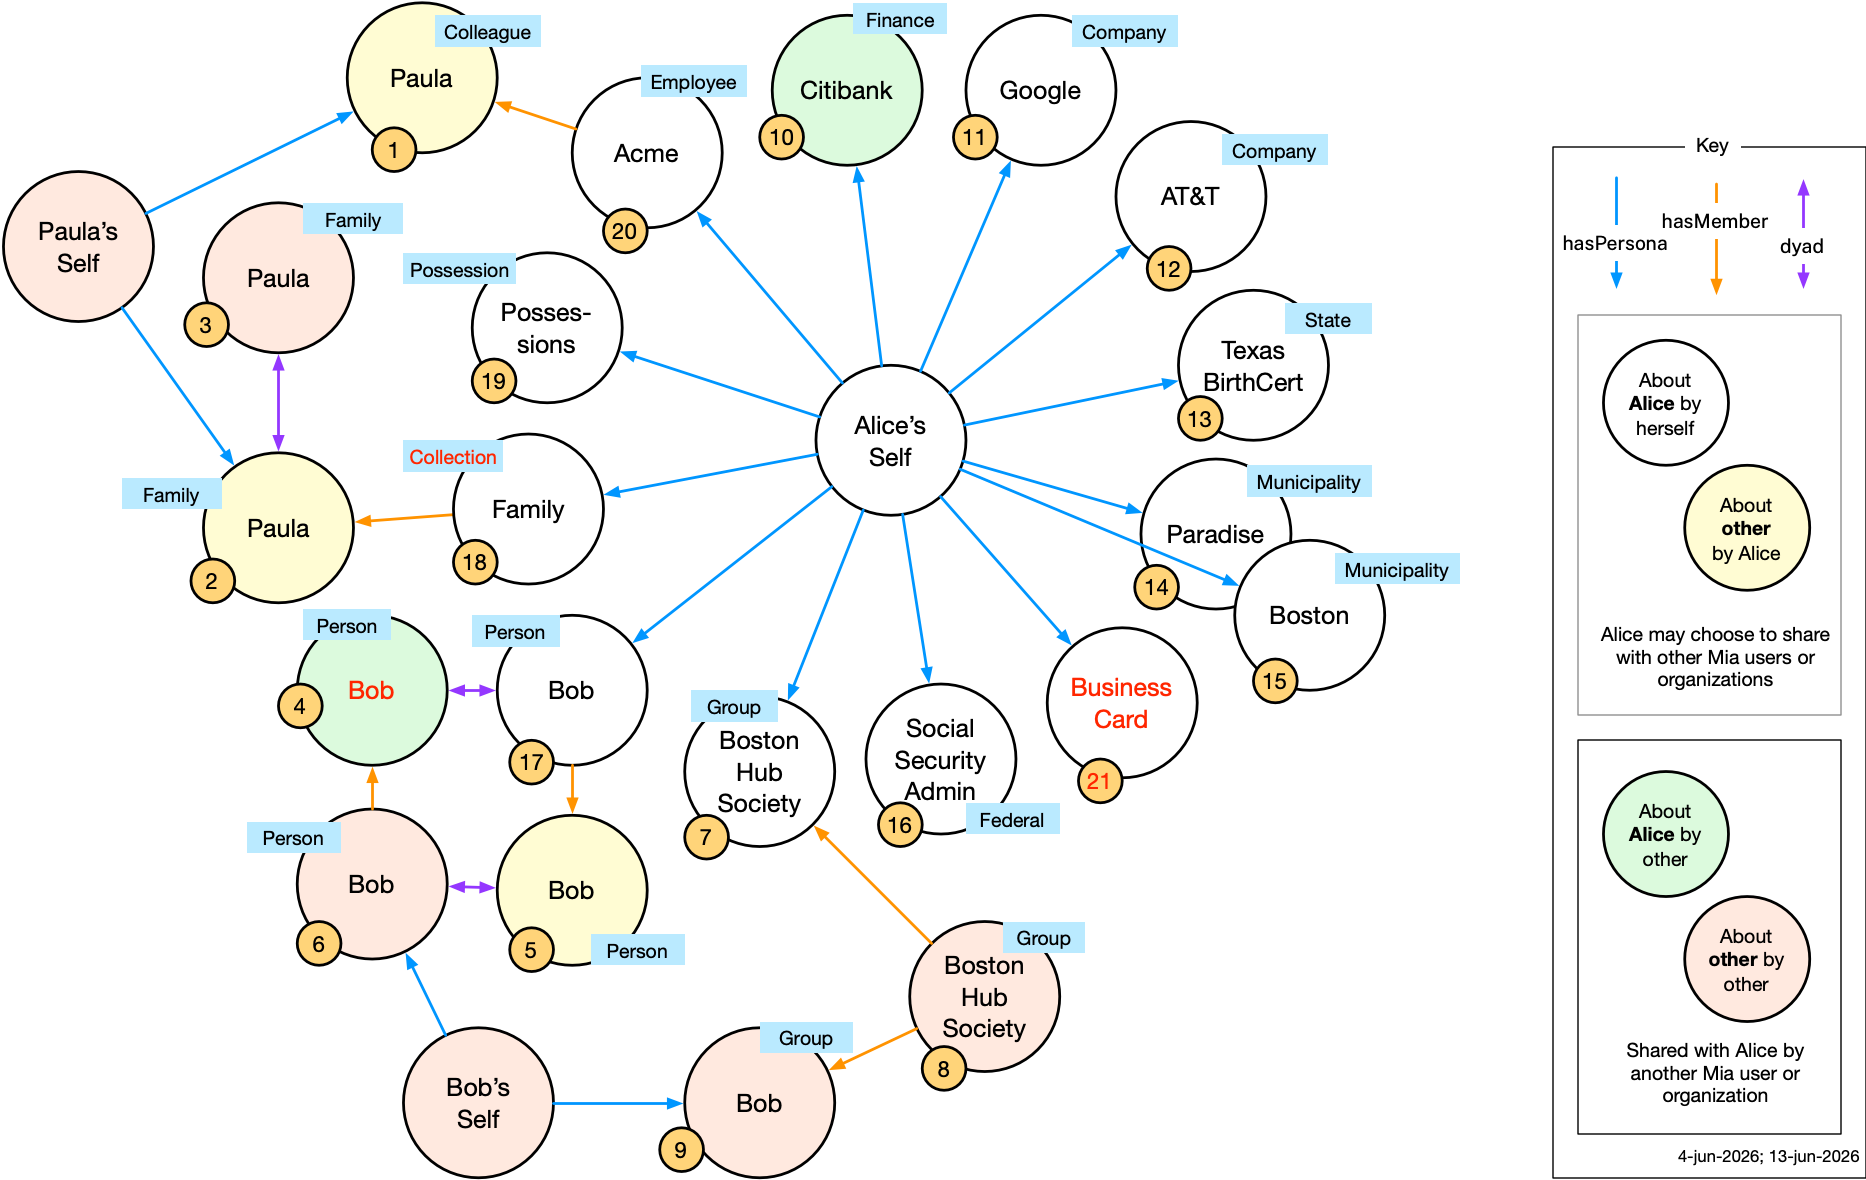
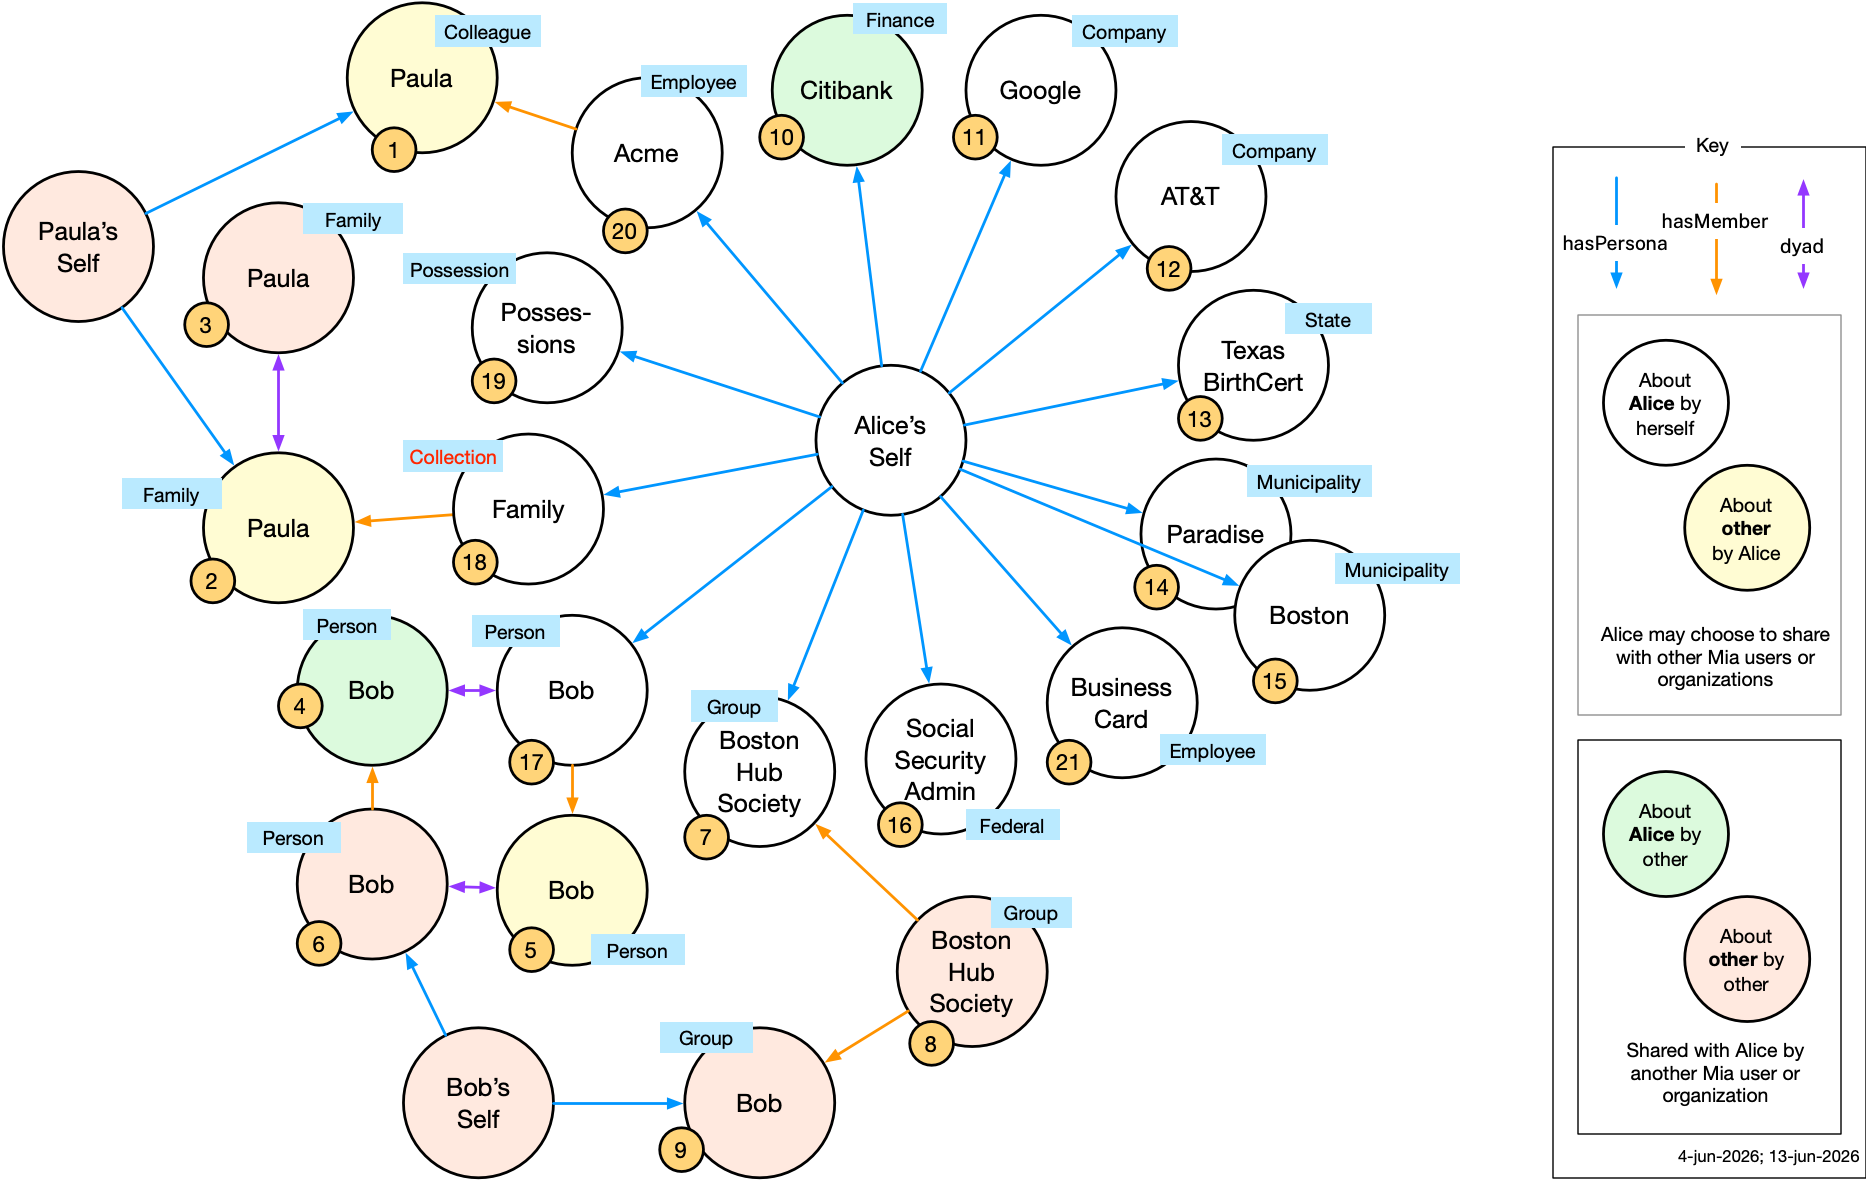
Add context #21: alice(business-card)alice
- New 21-alice(business-card)alice.ttl — Employee/Business Card persona with
  GivenName, FamilyName, Email, Phone, and OrganizationName (ent00000047) claims
- alice(self)alice.ttl: import + hasPersona + comment (v3.0.71)
- persona.ttl: add ent00000047 OrganizationName to usesOptionalClass (v3.0.42)
- persona-shacl.ttl: add OrganizationName property to PersonaShape (v3.0.29)
- README.md: add row #21 with diagram link
- Add 21-alice(business-card)alice.png and update context-map.png

diff --git a/README.md b/README.md
@@ -319,6 +319,7 @@ The contexts in the table below are *about* Alice and asserted *by* Alice. All `
 | 18 | [18-alice(family)alice.ttl](example/18-alice(family)alice.ttl)               | Family       | Family social network with Paula as member                       | [view](images/example/18-alice(family)alice.png) |
 | 19 | [19-alice(possessions)alice.ttl](example/19-alice(possessions)alice.ttl)     | Possession   | Wallet (driver's license + payment card); health ins., SSN card  | [view](images/example/19-alice(possessions)alice.png) |
 | 20 | [20-alice(acme)alice.ttl](example/20-alice(acme)alice.ttl)                   | Employee     | Acme employee context; company email; works with Paula      | [view](images/example/20-alice(acme)alice.png)|
+| 21 | [21-alice(business-card)alice.ttl](example/21-alice(business-card)alice.ttl) | Employee     | Business card — given name, family name, email, phone, employer | [view](images/example/21-alice(business-card)alice.png) |
 
 The following table lists contexts that are *about* Alice but asserted by others.
 